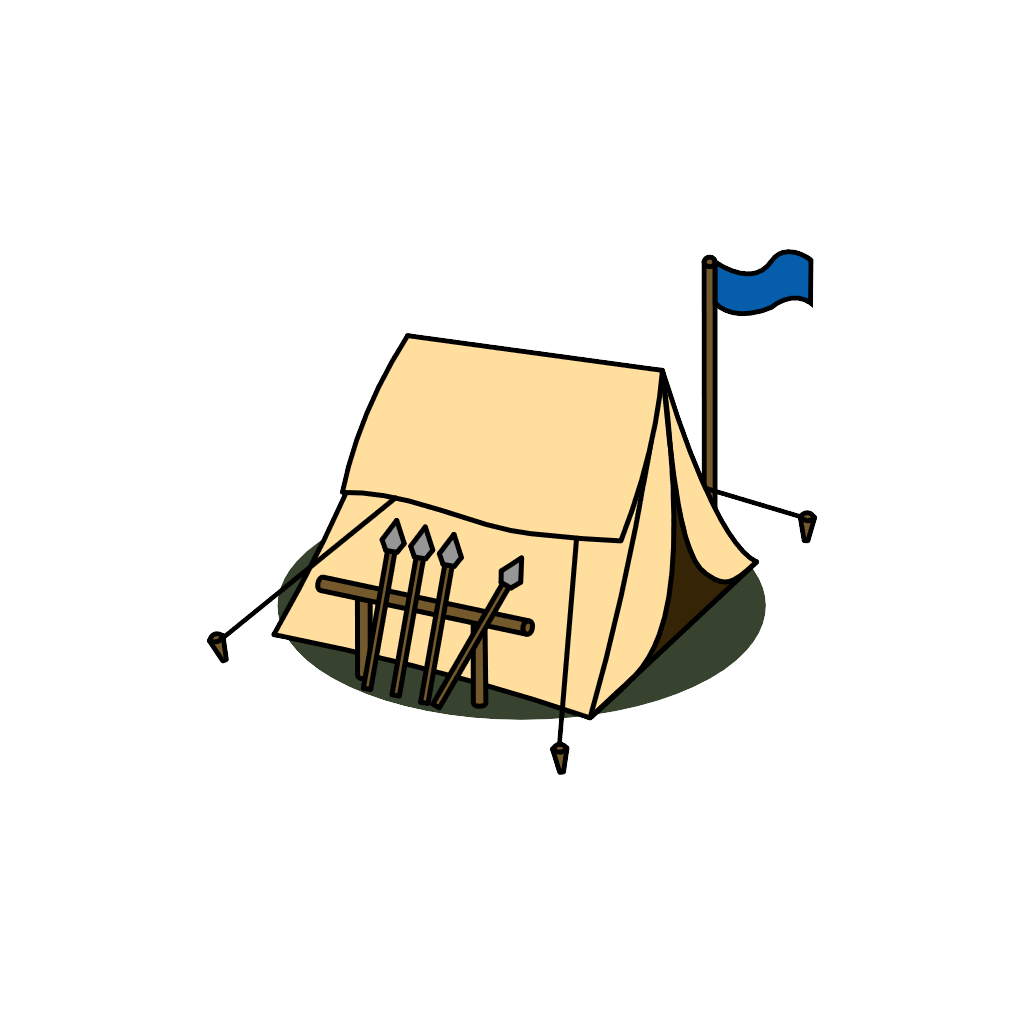
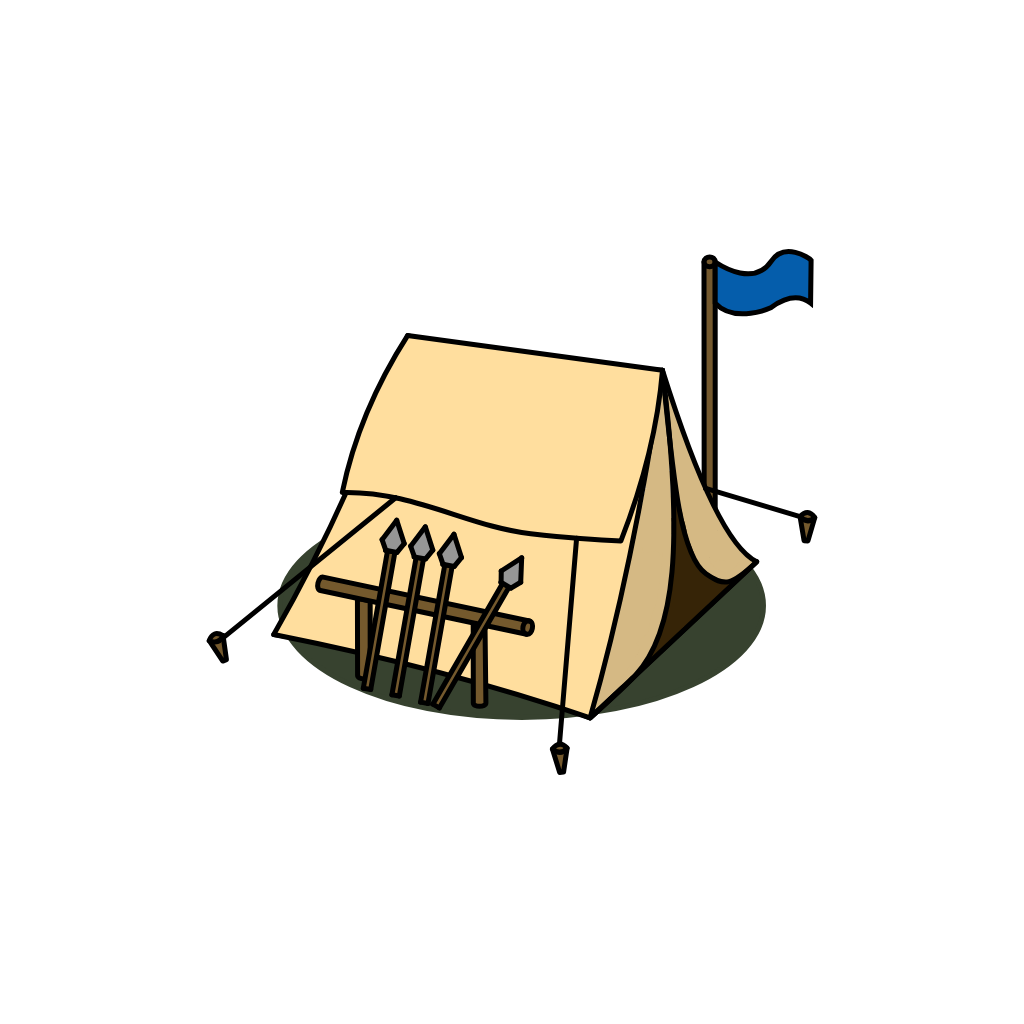
Militia Camp: the tent's right-hand end shaded
At the owner's word: the end panel and the door flap rolled back on it
take the cloth's darker tone. The flaps are drawn as wide lines with no
fill, so a by-hand pick now recolours a shape's line when it has no
fill. No stone pass on the tent: its only grey is the spearheads' steel.
The PNG is drawn from the SVG now, so its trim moved by 1-2 px.

Claude-Session: https://claude.ai/code/session_014Bn9hwRLZaL4vrSHCa3UBG

Changed region(s): [[0.5625, 0.375, 0.75, 0.6875]]

diff --git a/src/data/towers.js b/src/data/towers.js
@@ -146,7 +146,7 @@ const QUARREL_TRIM = [209, 250, 94, 12];
 // the drawings.
 const XBOW_TRIM = [194, 197, 124, 118];
 const XBOW_ATK_TRIM = [207, 197, 111, 118];
-const CAMP_TRIM = [207, 249, 610, 526];
+const CAMP_TRIM = [206, 249, 612, 526];
 const CAMP2_TRIM = [200, 196, 624, 632];
 const CAMP3_TRIM = [200, 201, 624, 622];
 const SPEAR_TRIM = [172, 198, 168, 116];

diff --git a/assets/towers/README.md b/assets/towers/README.md
@@ -754,8 +754,8 @@ building's SVG, shades it and writes it over the PNG, so it can be run again at
 any time and gives the same PNG. Which face is which was picked by hand for most
 towers (by the order of the `<path>` tags; see TOWERS in the tool) and read off
 the shapes for the barracks, the Paladin Keep and the Assassin Guild. The Abbey's
-roof cross is kept as drawn. The catapults, the tent and the weapon frames are not
-shaded.
+roof cross is kept as drawn. The tent's right-hand end is dark. The catapults and
+the weapon frames are not shaded.
 
 ## After a redraw
 
